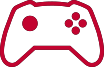
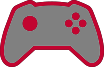
Added button linked to game

diff --git a/styles/my-styles.css b/styles/my-styles.css
@@ -117,11 +117,18 @@ html, body {
   }
 
 .game-icon {
+    position: fixed;
+    opacity: 0.8;
+    top: 4%;
+    right: 2%;
+    transform: translateY(-50%);
     cursor: pointer;
-    width: 6.2em;
-    height: 4em;
+    width: 7.78em;
+    height: 5em;
     background-image: url("../images/game.png");
-    background-size: cover;}
+    background-size: cover;
+    z-index: 999;
+    }
     
 .game-icon a {
     display: block;
@@ -149,5 +156,8 @@ html, body {
         display: none;}
     img {
         width: 95vw;
-    }   
+    } 
+    .game-icon {
+        width: 3.1em;
+        height: 2em;}  
 }
